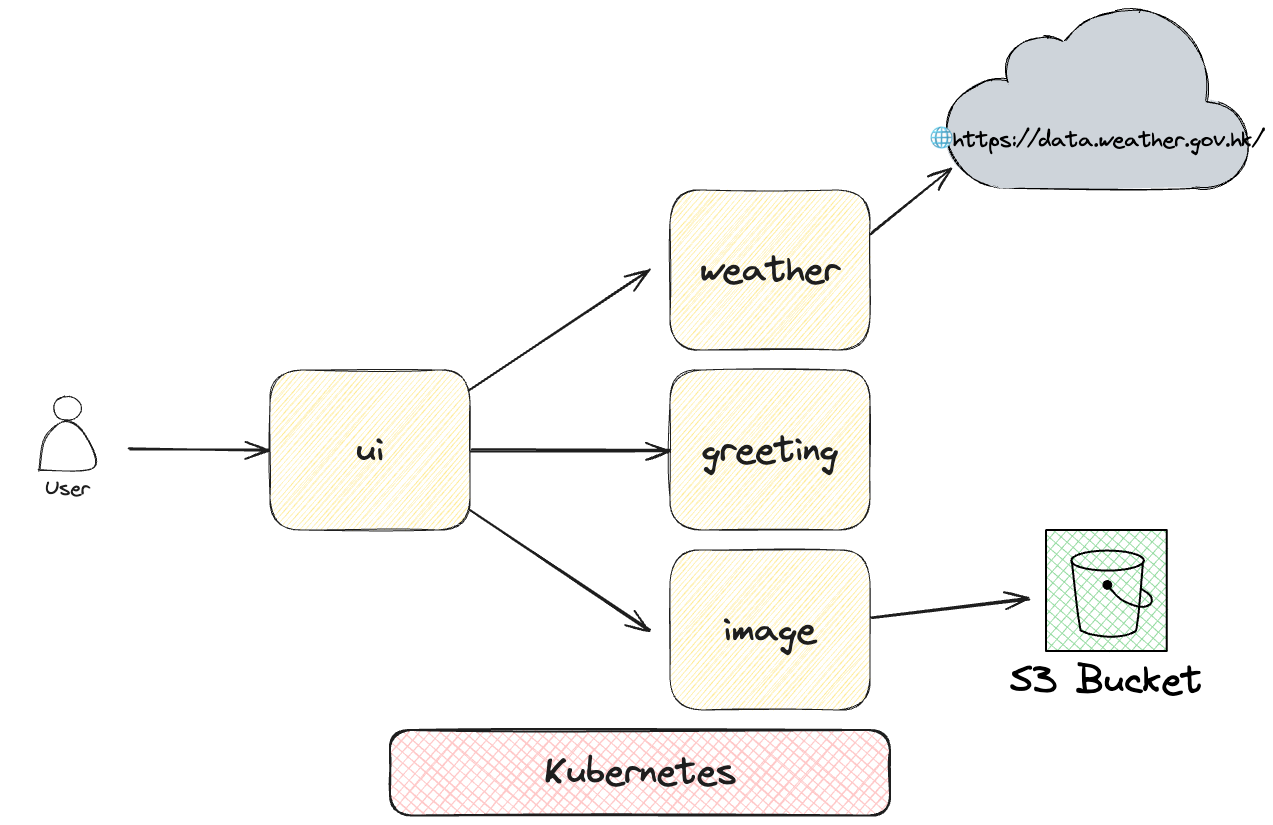
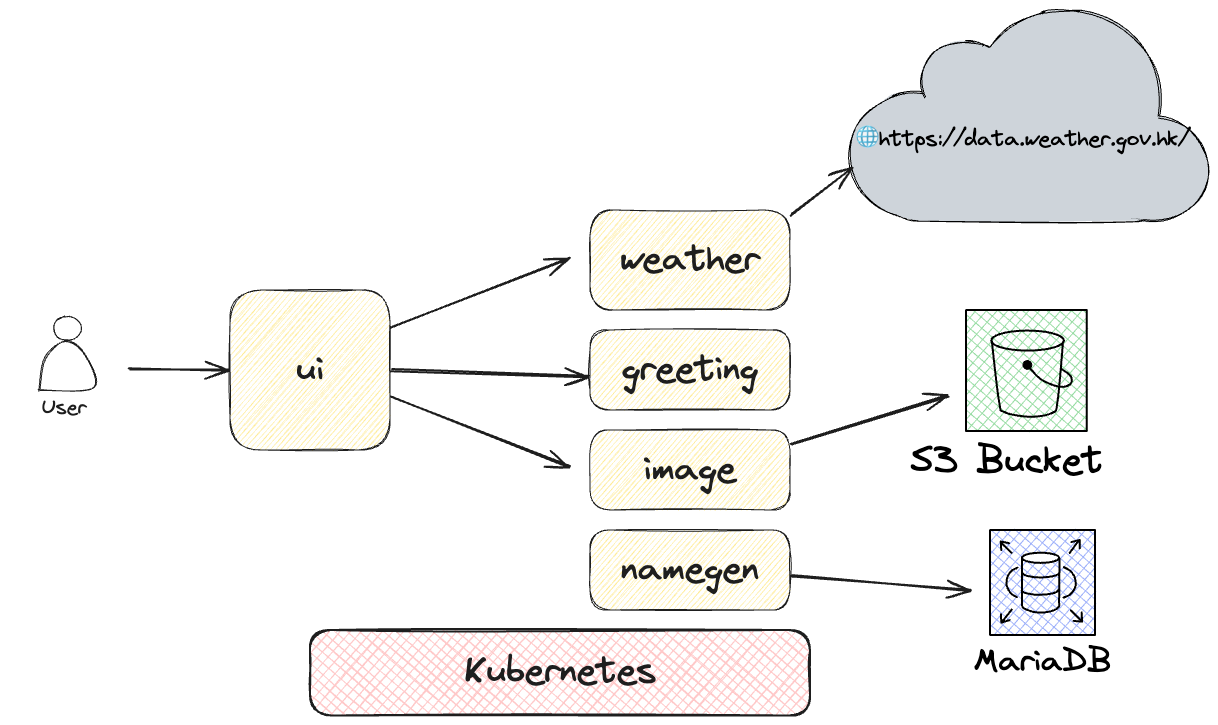
update ui iamge tag and ui image updated namegen info

diff --git a/ui/py_Dockerfile/index.html b/ui/py_Dockerfile/index.html
@@ -50,10 +50,12 @@
     <button onclick="getGreeting()">Get Greeting</button>
     <button onclick="getWeather()">Get Weather</button>
     <button onclick="getImage()">Get Image</button>
+    <button onclick="getNamegen()">Generate Name</button>
 
     <div id="greetingResponse"></div>
     <div id="weatherResponse"></div>
     <div id="imageResponse"></div>
+    <div id="namegenResponse"></div>
 
     <script>
         function getGreeting() {
@@ -104,6 +106,20 @@
             // Handle any errors
             console.error(error);
             });
+        }
+
+        function getNamegen() {
+            fetch('/namegen')
+                .then(response => response.json())
+                .then(data => {
+                    // Handle the weather data
+                    console.log(data);
+                    document.getElementById('namegenResponse').innerText = JSON.stringify(data, null, 2);
+                })
+                .catch(error => {
+                    // Handle any errors
+                    console.error(error);
+                });
         }
     </script>
 </body>

diff --git a/ui/py_Dockerfile/ui.py b/ui/py_Dockerfile/ui.py
@@ -7,6 +7,7 @@ CONTAINER_PORT = os.getenv('containerPort', '5000')  # Read containerPort from e
 GREETING_HOSTNAME = os.getenv('GREETING_HOSTNAME', 'greeting')  # Read Greeting API hostname from environmental variable
 WEATHER_HOSTNAME = os.getenv('WEATHER_HOSTNAME', 'weather')  # Read Weather API hostname from environmental variable
 IMAGE_HOSTNAME = os.getenv('IMAGE_HOSTNAME', 'image')  # Read Image API URL from environmental variable
+NAMEGEN_HOSTNAME = os.getenv('NAMEGEN_HOSTNAME', 'namegen')  # Read Image API URL from environmental variable
 
 app = Flask(__name__, template_folder=template_dir)
 
@@ -19,7 +20,6 @@ def index():
 @app.route('/greeting', methods=['GET'])
 def get_greeting():
     greeting_api_url = f"http://{GREETING_HOSTNAME}/v1/greeting"
-    print(f'{greeting_api_url}')
     try:
         greeting_response = requests.get(greeting_api_url)
         if greeting_response.status_code == 200:
@@ -57,6 +57,20 @@ def get_image():
         else:
             return jsonify(service_na)
     except requests.exceptions.RequestException:
+        return jsonify(service_na)
+
+@app.route('/namegen', methods=['GET'])
+def get_namegen():
+    namegen_api_url = f"http://{NAMEGEN_HOSTNAME}/v1/name"
+    try:
+        namegen_response = requests.get(namegen_api_url)
+        if namegen_response.status_code == 200:
+            namegen_response.raise_for_status()  # Raise an exception for non-200 status codes
+            namegen = namegen_response.text  # Get the response as a string
+            return jsonify({"name": namegen})
+        else:
+            return jsonify(service_na)
+    except requests.exceptions.RequestException as e:
         return jsonify(service_na)
 
 @app.route('/', defaults={'path': ''})

diff --git a/README.md b/README.md
@@ -27,6 +27,7 @@ Code and Dockerfile that tested with minio is inside ./image/py_Dockerfile_minio
 export GREETING_HOSTNAME=127.0.0.1:5001
 export WEATHER_HOSTNAME=127.0.0.1:5002
 export IMAGE_HOSTNAME=127.0.0.1:5003
+export NAMEGEN_HOSTNAME=127.0.0.1:5004
 ```
 
 # To Build the image on M1 for x64
